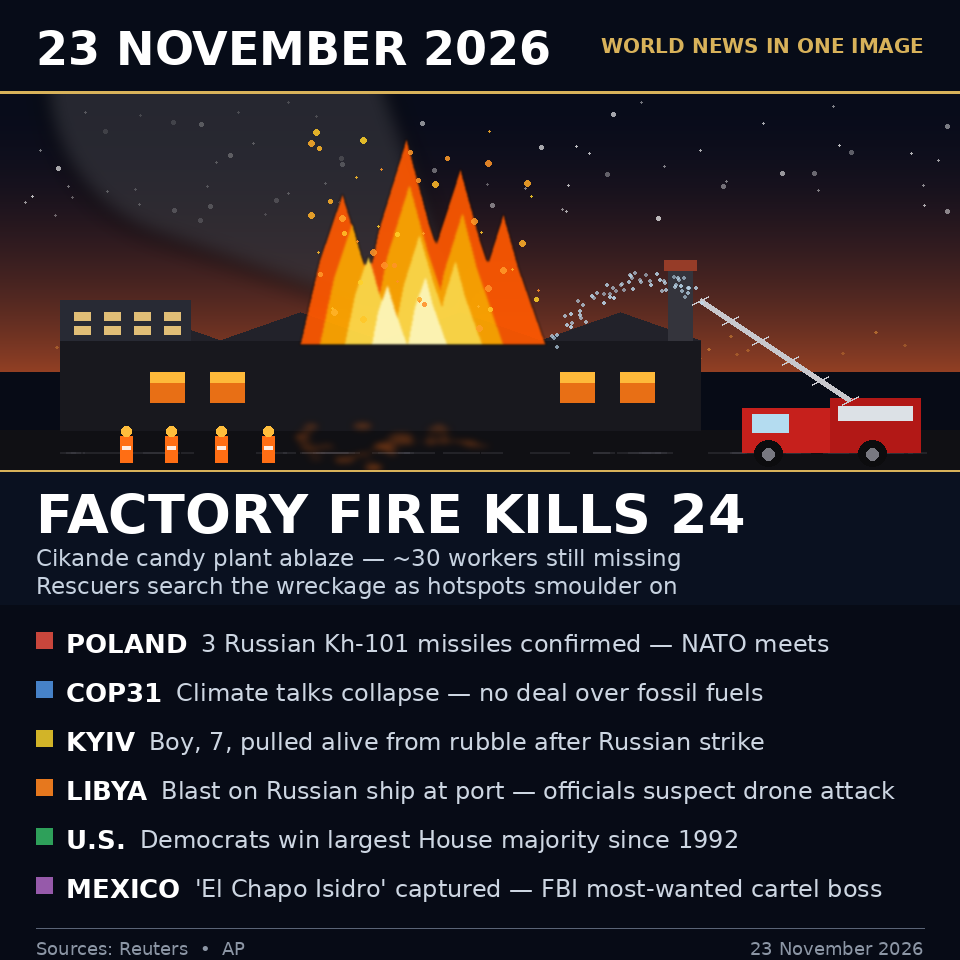
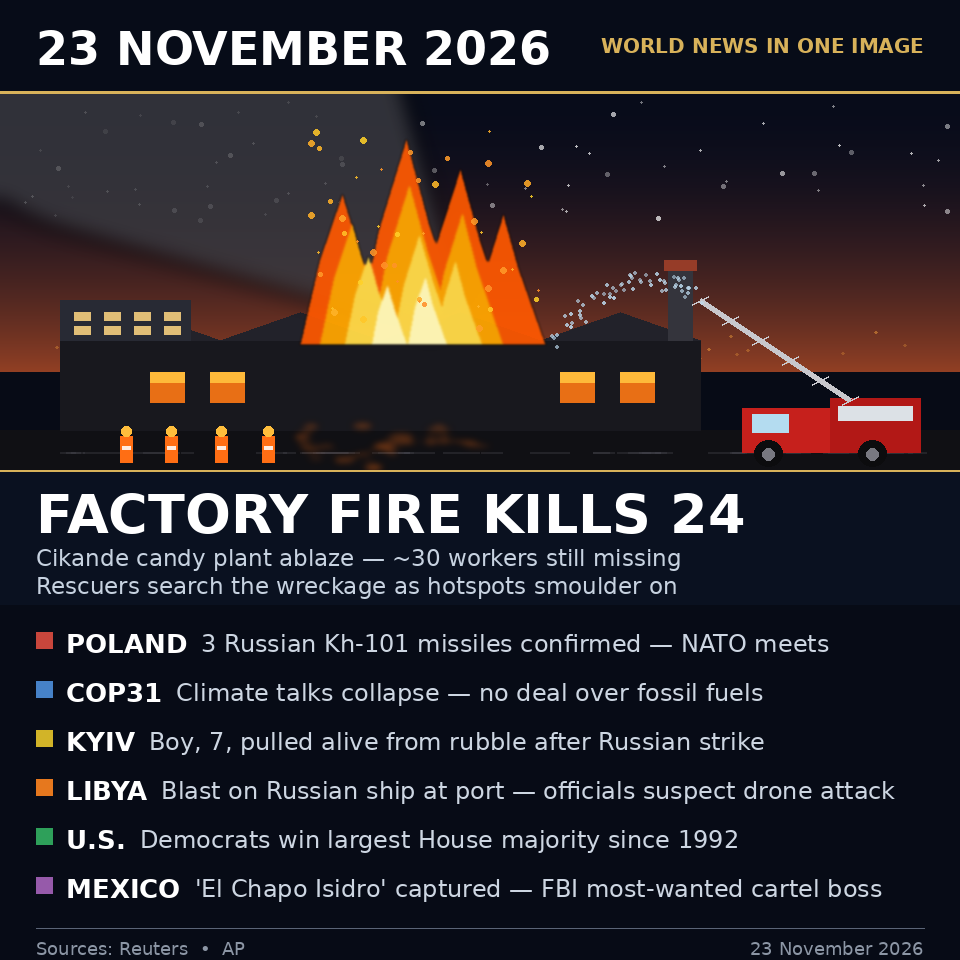
Fix: revise hero render for thinking_revised

Changed region(s): [[0.0, 0.0938, 0.1562, 0.25], [0.4062, 0.0938, 0.4375, 0.125]]

diff --git a/generate.py b/generate.py
@@ -83,9 +83,9 @@ d.rectangle([664, 260, 696, 270], fill=(150, 60, 40, 255))
 smoke = Image.new("RGBA", (W, H), (0, 0, 0, 0))
 sd = ImageDraw.Draw(smoke)
 sx, sy = 430, 300
-for i in range(18):
-    r = 30 + i * 8
-    sd.ellipse([sx - r, sy - r, sx + r, sy + r], fill=(52, 52, 58, 175))
+for i in range(24):
+    r = 32 + i * 9
+    sd.ellipse([sx - r, sy - r, sx + r, sy + r], fill=(58, 58, 64, 205))
     sx -= 13
     sy -= 13
 img.paste(Image.alpha_composite(img.convert("RGBA"),
